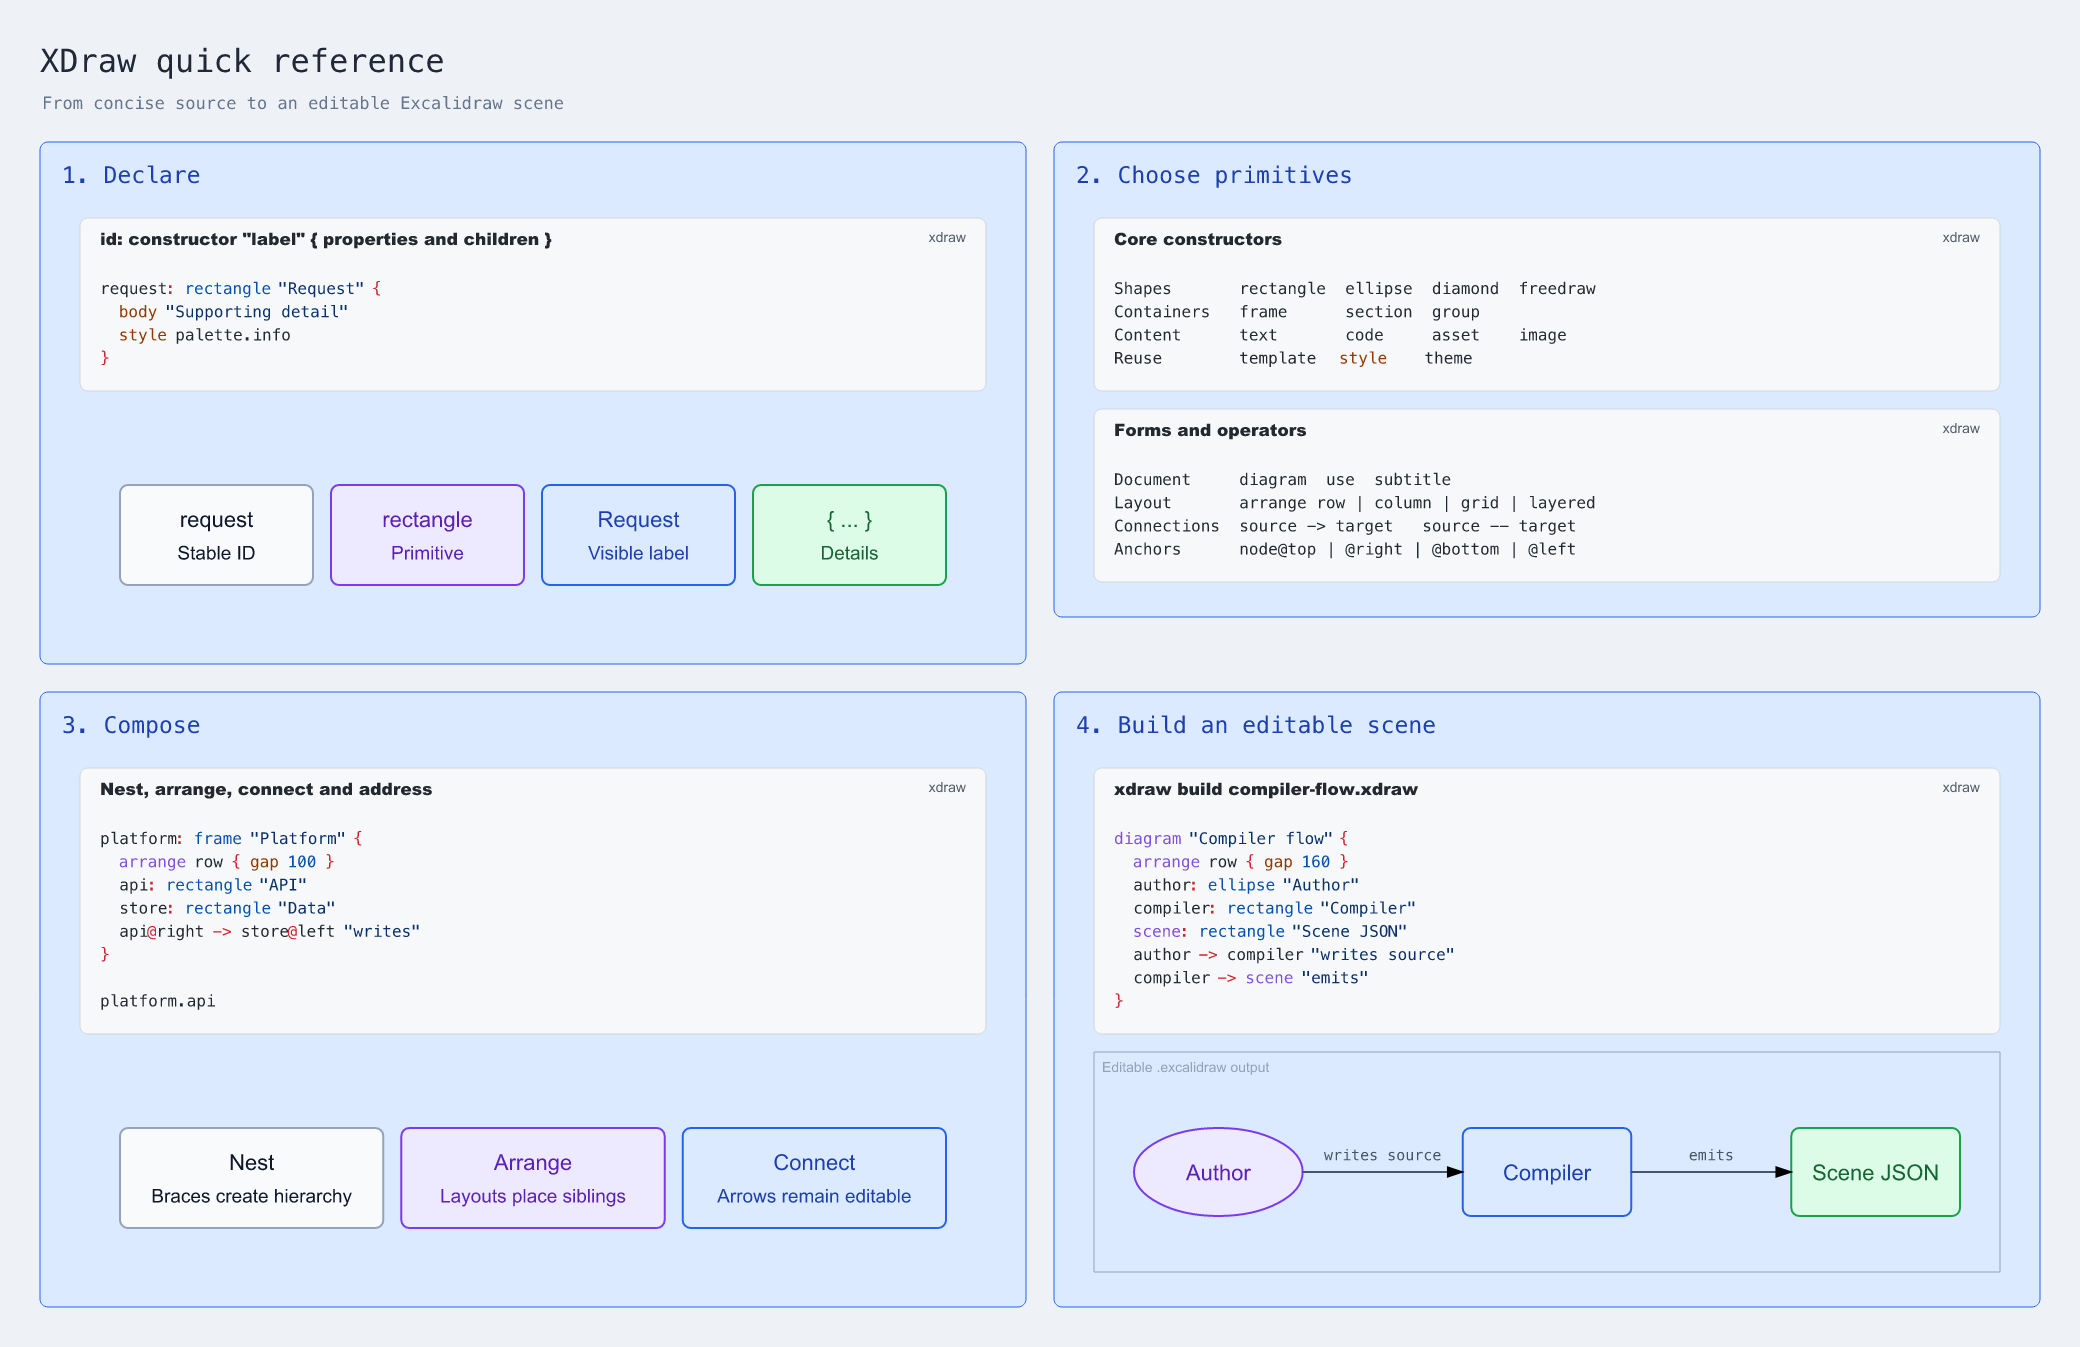
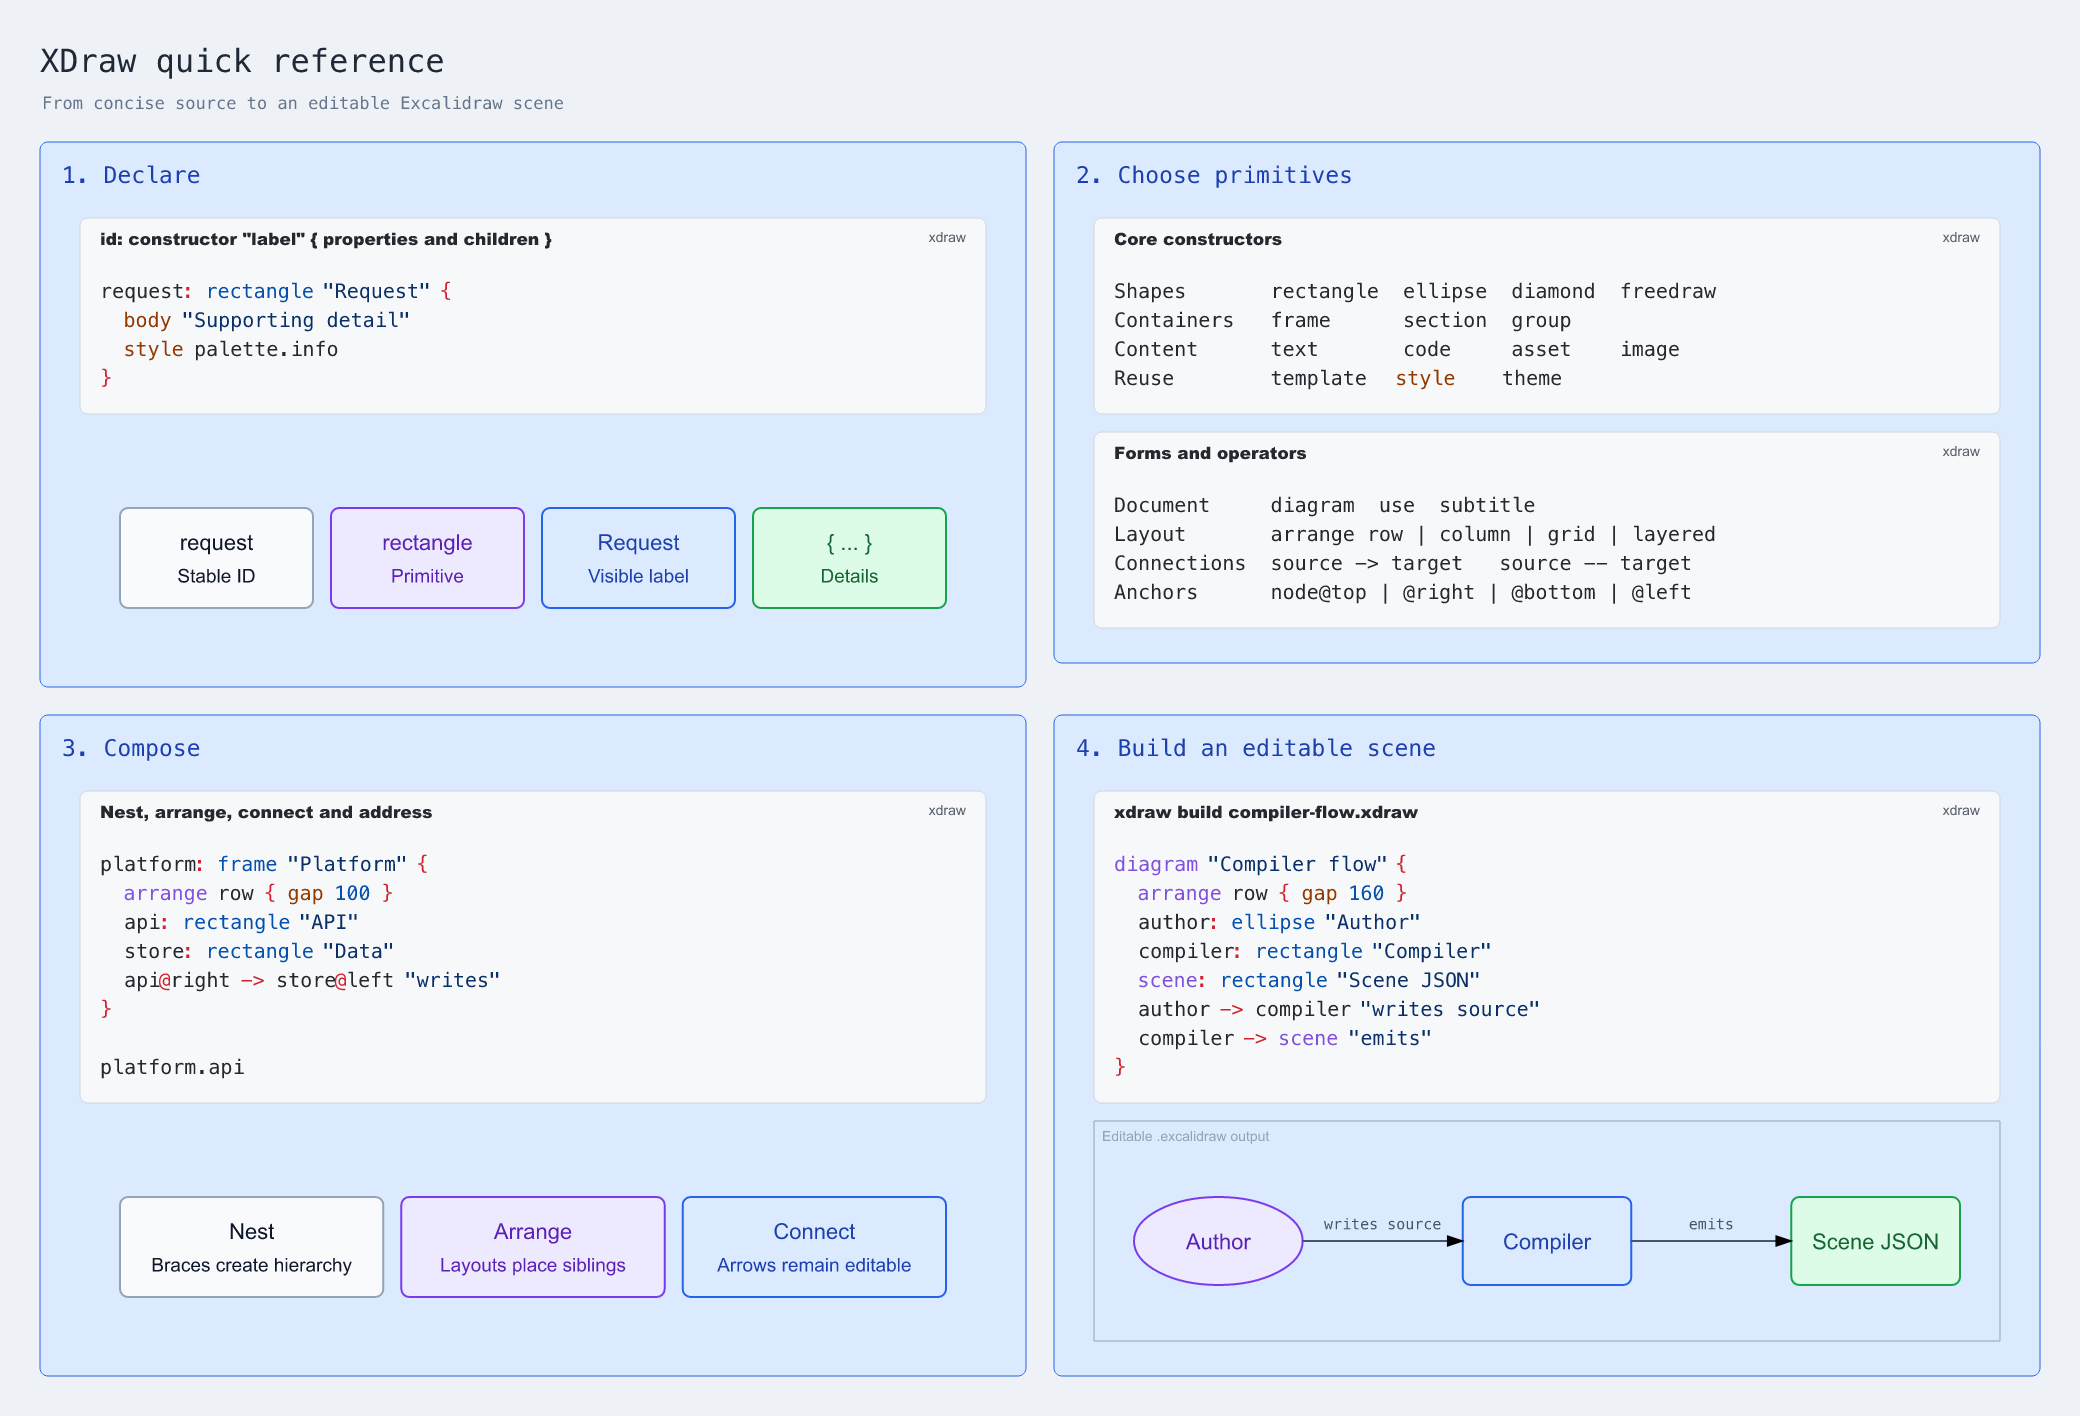
fix: raise the code and table font size
Both were pinned at 16, below the 18 to 19 used for body text elsewhere,
and neither exposes a font-size property, so a document could not correct
it. In the README the cheatsheet is scaled to about 0.42, which rendered
that text near seven pixels.

Raise both to 20 and regenerate the affected images and corpus
fingerprint. Text still fits its containers: the corpus asserts measured
width against element width.

diff --git a/src/nodes/table.ts b/src/nodes/table.ts
@@ -7,8 +7,8 @@ import type { DrawingElement, RectangleElement, TextElement } from "../contracts
 import type { NodeStatement, SemanticStatement, TableRowStatement } from "../contracts/semantic.ts";
 import type { TableNodePlan } from "../contracts/rich-node.ts";
 
-const BODY_FONT_SIZE = 16;
-const HEADER_FONT_SIZE = 16;
+const BODY_FONT_SIZE = 20;
+const HEADER_FONT_SIZE = 20;
 const TITLE_FONT_SIZE = 20;
 const FONT_NORMAL = 2;
 const FONT_BOLD = 7;

diff --git a/src/text/code-block.ts b/src/text/code-block.ts
@@ -13,7 +13,7 @@ import {
   MAX_HIGHLIGHT_SOURCE_CHARACTERS,
 } from "./policy.ts";
 
-const FONT_SIZE = 16;
+const FONT_SIZE = 20;
 const LINE_HEIGHT = 1.45;
 const HEADER_HEIGHT = 40;
 const PADDING = 20;
